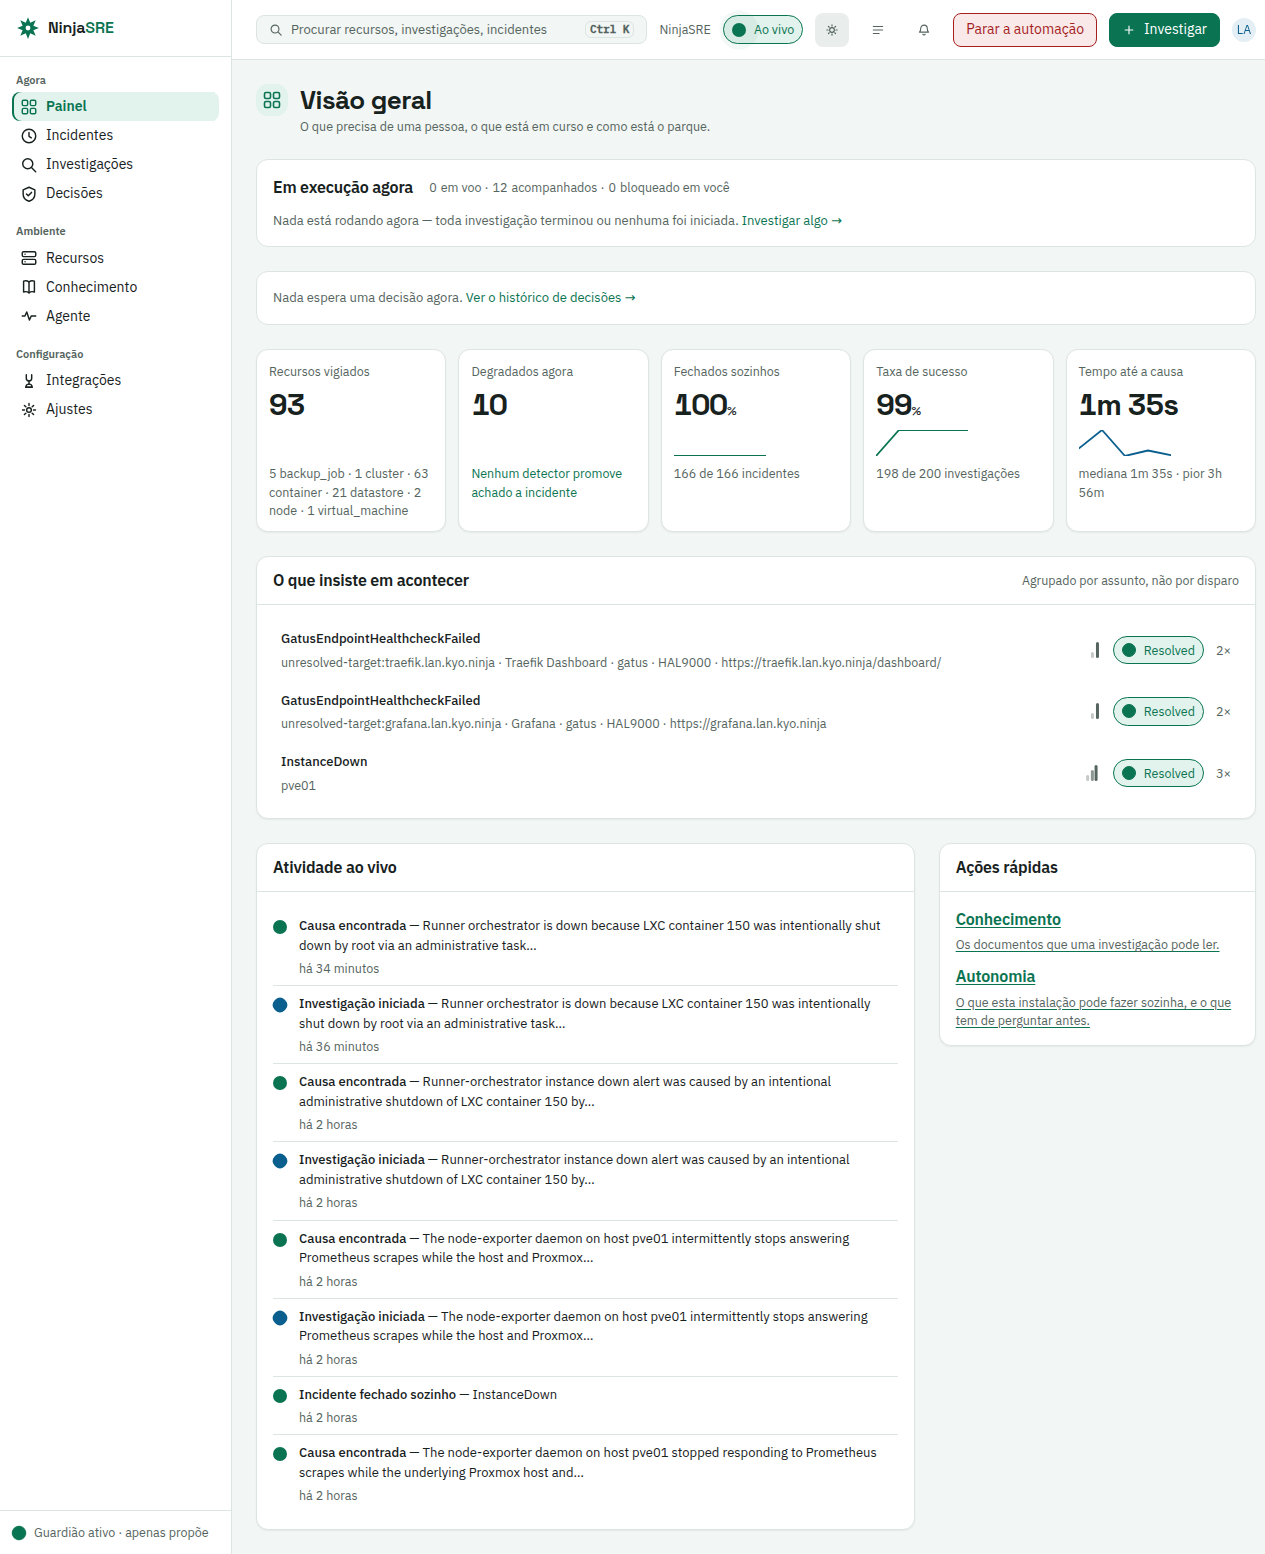
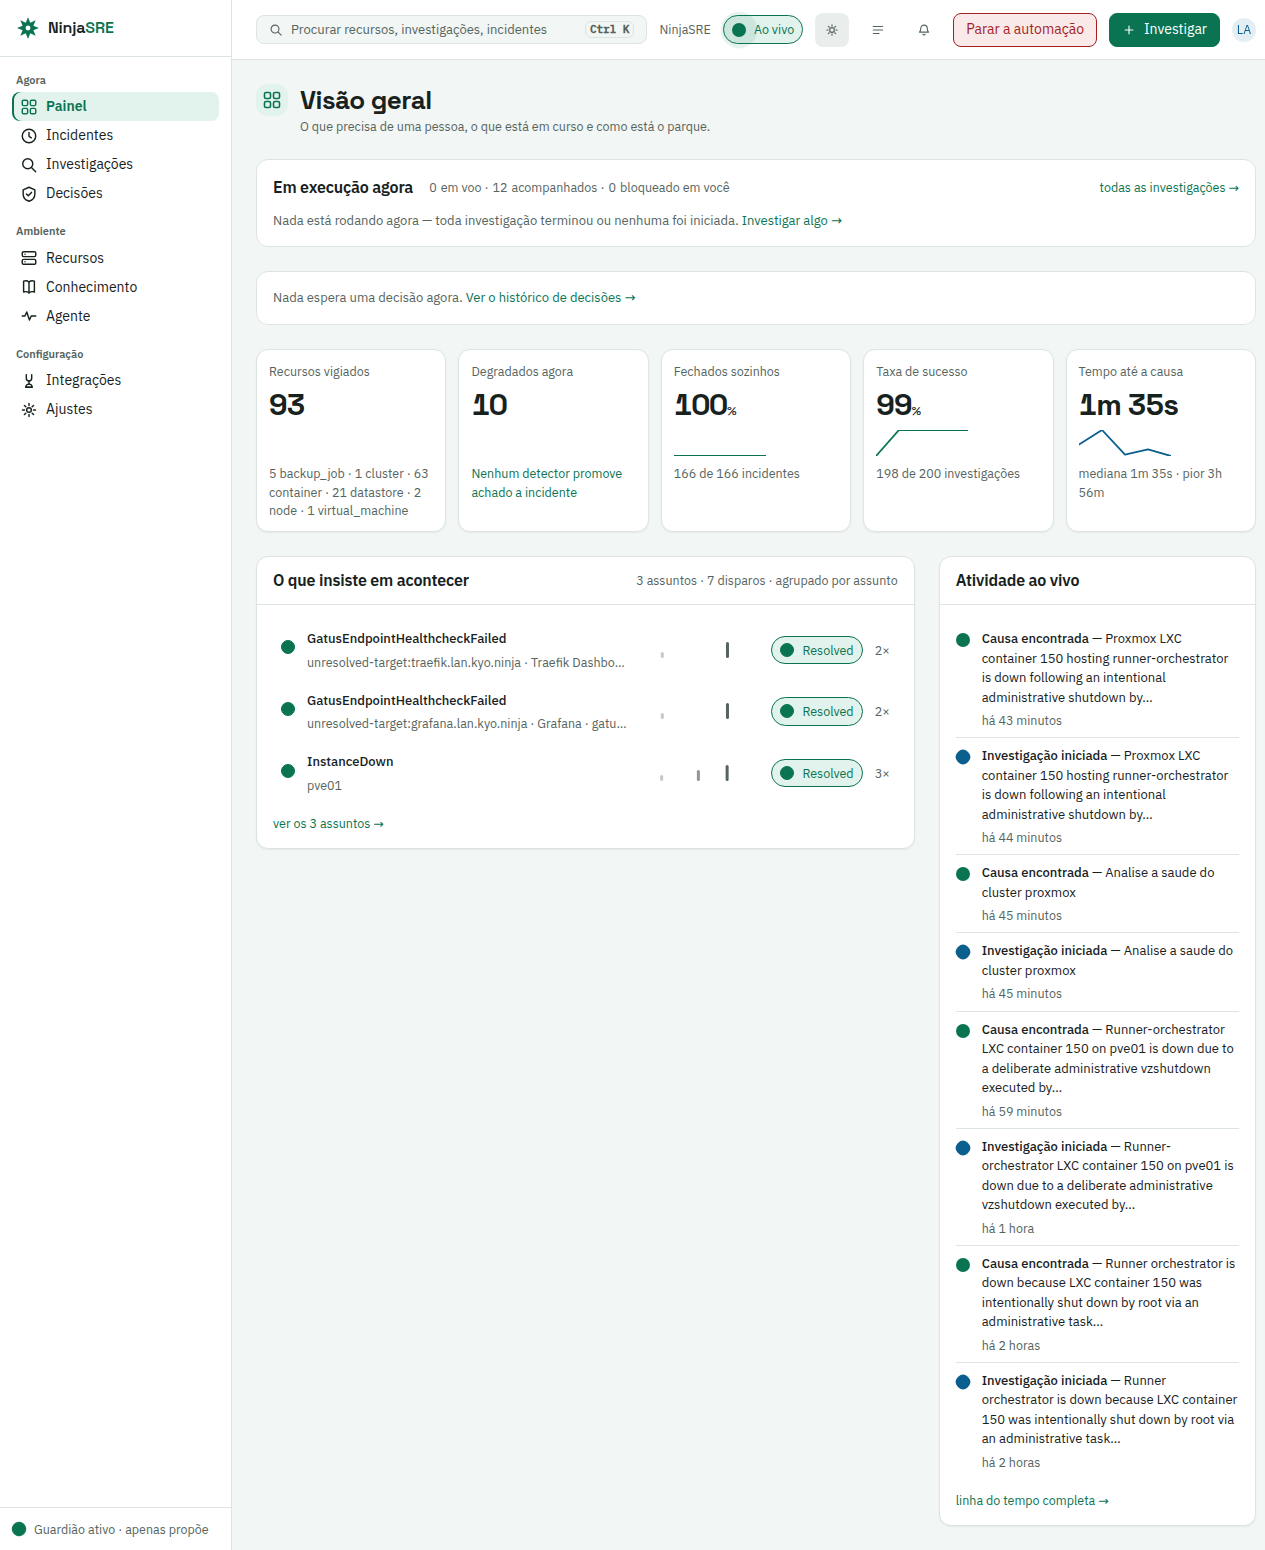
docs(specs): record the conformed Painel and what the visual gate caught
Both themes CONFORME against the artboard after the layout work, captured on
the 20:08:01Z pod generation with the routes warmed.

The verdict now says per file what each capture is evidence of, marks the two
live-run captures as pre-fix, and states where staging's live data differs from
the artboard's sample so nobody later reads a data-shaped gap as a layout one.

Claude-Session: https://claude.ai/code/session_01U2LvfDxXmuEAZz6MpEJBHE

diff --git a/specs_v8/050-painel-vivo/evidence/visual/VEREDITO.md b/specs_v8/050-painel-vivo/evidence/visual/VEREDITO.md
@@ -1,92 +1,100 @@
 # Veredito visual — 050 Painel vivo, slot S3
 
-Feito no Orca Browser contra o staging (`https://stg-ninjasre.lan.kyo.ninja/`),
-depois do deploy dos três componentes, do rollout confirmado por listagem de
-pods e das nove rotas aquecidas autenticadas. Locale pt-BR, escolhido pelo
-cookie `ninjasre_locale` — que é como um leitor troca de idioma, e o que
-`requestLocale` prefere sobre o `accept-language`. O `DEFAULT_LOCALE` do
-console é `en`, então a primeira renderização em inglês era comportamento
-correto e não defeito.
+Orca Browser contra o staging (`https://stg-ninjasre.lan.kyo.ninja/`), depois
+do deploy dos três componentes, da geração de pods confirmada por listagem
+(20:08:01Z, sem sobra da anterior) e das nove rotas aquecidas autenticadas.
+Locale pt-BR pelo cookie `ninjasre_locale`, que é como um leitor troca de
+idioma. O `DEFAULT_LOCALE` do console é `en`, então a primeira renderização em
+inglês era comportamento correto, não defeito.
 
 | Tela | Tema | Veredito |
 |---|---|---|
 | `/` | dark | **CONFORME** |
 | `/` | light | **CONFORME** |
 
-Os dois desvios que este gate encontrou foram corrigidos e reconferidos na
-tela viva, não no código.
+Cada tema foi nomeado pelo valor **medido** de `data-theme`, não pelo
+presumido. Na primeira rodada deste gate os dois arquivos saíram trocados
+justamente por presunção.
 
-## O que este gate achou, e a suíte verde não
+## O que este gate achou com a suíte verde
 
-**1. "O que continua acontecendo" onde o board manda "O que insiste em
-acontecer".** Os dois artboards dizem a frase; a própria spec a repete sete
-vezes, entre elas a AN-11 e a SC-006. Nada em `DIVERGENCIAS.md` registrava a
-troca, e desvio sem registro é FAIL de slot pelo §3 do `EXECUCAO.md`.
+Três defeitos reais, nenhum deles visível a um teste que passava.
 
-Passou por baixo da suíte porque **nenhum teste afirmava o nome da seção** —
-localizavam o painel por `data-testid`. E, mais fundo: `playwright.config.ts:40`
-fixa `locale: 'en-GB'`, então **nenhum teste e2e conseguia ver uma string em
-pt-BR**, enquanto o board é inteiramente pt-BR. A superfície de conformidade
-com o artboard era invisível ao Playwright por construção. Isso é achado de
-onda, não da 050, e está no confronto.
+**1. O título da seção.** O board e a própria spec (AN-11, SC-006, sete
+menções) dizem "O que insiste em acontecer"; o console dizia "O que continua
+acontecendo", sem registro em `DIVERGENCIAS.md`. Nenhum teste afirmava o nome
+da seção. E, mais fundo: `playwright.config.ts:40` fixa `locale: 'en-GB'`, de
+modo que **nenhum teste e2e conseguia ver uma string em pt-BR** — a superfície
+inteira de conformidade com o artboard era invisível ao Playwright por
+construção. Achado de onda, não da 050.
 
-Corrigido em `pt-BR.ts:800`; asserção nova em `painel-vivo.acceptance.spec.ts`
-com controle negativo nos dois sentidos.
+**2. O identificador cru como texto de linha.** A linha lia `res-76ab1466…`.
+O primeiro reparo resolveu o nome do estate e ela passou a `pve01 ·
+res-76ab1466…` — e a AN-12 **ficou verde**, porque seu regex era ancorado em
+`^res-` e o nome entrou na frente. O defeito andou de lado. A SC-007 proíbe o
+padrão em *qualquer texto visível*; a FR-024 diz que o identificador aparece no
+máximo como tooltip. Segundo reparo, e asserção reescrita sem âncora.
 
-**2. Identificador cru como texto de linha.** A linha do `InstanceDown` lia
-`res-76ab1466…`. O primeiro reparo resolveu o nome do estate e ela passou a
-ler `pve01 · res-76ab1466…` — e a AN-12 **ficou verde**, porque seu regex era
-ancorado em `^res-` e o `pve01` entrou na frente.
+**3. A composição.** O board põe "O que insiste em acontecer" e "Atividade ao
+vivo" lado a lado; o console empilhava. Faltavam o contador do cabeçalho, os
+dois rodapés e o `todas as investigações →`. E o limite de **5 assuntos** que a
+spec exige na linha 486 nunca tinha sido implementado — os outros dois limites
+existiam como constante nomeada, esse não, então o painel desenhava todos.
 
-Isso não fechava nada. A **SC-007** proíbe o padrão em *qualquer texto visível*
-do Painel, e a **FR-024** diz que o identificador interno aparece *no máximo
-como tooltip, nunca como texto da linha*. O teste tinha ficado verde porque o
-defeito andou de lado.
+## Conferido na tela, nesta captura
 
-Achado lendo a tela depois do deploy, não rodando a suíte. Segundo reparo: com
-`isOpaque(subject)` — condicionado assim para não quebrar a 060, que afirma
-`toContainText('ct-102')` no mesmo componente compartilhado — a linha passa a
-mostrar só o nome, e o id vive apenas no `title`. A asserção foi reescrita para
-a redação real da SC-007: sem âncora, sobre o texto visível do Painel.
+- Duas colunas, "O que insiste em acontecer" ao lado de "Atividade ao vivo".
+- Cabeçalho com `3 assuntos · 7 disparos · agrupado por assunto`, onde a soma
+  dos disparos vem dos mesmos `count` que as linhas imprimem como `N×` — então
+  cabeçalho e linhas não podem discordar.
+- `ver os 3 assuntos →` e `linha do tempo completa →`.
+- `todas as investigações →` na banda de execução.
+- Marca de status à esquerda de cada assunto.
+- Sparkline por assunto em eixo fixo, não mais `occurrences.length * 6` — que
+  dava 12 pixels a um assunto de dois disparos e punha duas linhas em escalas
+  diferentes.
+- Zero ocorrências de `res-[0-9a-f]{8}` e de hex ≥16 no snapshot inteiro.
+- "Ações rápidas" ausente, e a remoção foi decidida com razão verificada:
+  `/knowledge` duplica entrada permanente da barra lateral, e `/autonomy` é
+  rota aposentada (`routes.ts:318`, `visible: () => false`) que o
+  `GuardianFooter` alcança do rodapé de toda página. Nenhum destino se perde.
 
-Reconferido na tela viva: **zero ocorrências** de `res-[0-9a-f]{8}` e zero de
-hex ≥16 no snapshot inteiro. A linha lê `InstanceDown · pve01`. As demais
-linhas mantiveram suas cadeias de metadados intactas — o conserto não decepou
-metadado por atacado.
+## Onde o dado vivo difere do artboard, e isso não é desvio
 
-## O que confere
+O §3 do `EXECUCAO.md` manda dizer isto explicitamente. O board desenha 5
+assuntos e 6 entradas de atividade, com as duas colunas de altura parecida. O
+staging tem 3 assuntos e 8 entradas, então a coluna da esquerda termina bem
+antes da direita e sobra um vazio grande. **É o dado, não a composição** — com
+5 assuntos as colunas se aproximam. Registro para que ninguém leia o vazio como
+defeito de layout depois.
 
-- Todas as seções que a spec nomeia, com dado real, nos dois temas: banda de
-  execução, "Precisa de você", os cinco KPIs com valor, sparkline e legenda de
-  decomposição, o agrupamento por assunto e a atividade ao vivo.
-- Os seis segmentos de estágio da AN-03 no cartão vivo, com o atual distinto do
-  concluído e do futuro — em `dashboard-{dark,light}-live-run.png`.
-- O cartão titulado pelo objetivo digitado, palavra por palavra: a alegação da
-  020 vista na tela.
-- O chip de frescor apanhado nos dois estados entre as capturas.
+## Divergências registradas nesta rodada
 
-## Observações que não são defeitos desta feature
-
-- Os chips de assunto dizem "Resolved" num console pt-BR. É deliberado e
-  documentado: `status.tsx:192` diz que o `Badge` é "o único chip que carrega
-  uma palavra que o deployment escreveu, não uma que este console escolheu".
-  Vale decisão do operador só porque a mesma palavra sai "Resolvido" em
-  `/incidents`.
-- `dashboard.kpi.sparkline.label` é `'Tendência de {count} dias'`, então com
-  `count=1` anuncia "Tendência de 1 dias". É nome acessível da sparkline, não
-  texto desenhado — não afeta a comparação com o artboard, mas é erro de
-  concordância numa chave da própria 050.
+`design/padrao-2026-08/DIVERGENCIAS.md`, entradas 9–12: o trilho vertical
+ausente no feed; o chip `stream` e a legenda `atualizado por eventos` recusados
+sob a regra de um indicador de frescor por página; a decomposição de
+`Recursos vigiados` imprimindo as palavras do próprio estate, porque o conjunto
+de tipos é aberto por integração; e o chip `Resolved`, que **não** foi
+consertado de propósito — o vocabulário de status é da fundação e o mesmo chip
+está em `/incidents`, `/runs` e `/decisions`.
 
 ## Evidência
 
-| Arquivo | O que mostra |
-|---|---|
-| `dashboard-dark.png` | `/`, escuro, estado final pós-reparos |
-| `dashboard-light.png` | `/`, claro, estado final pós-reparos |
-| `dashboard-dark-live-run.png` | `/`, escuro, com o run vivo aos 46s e os seis segmentos |
-| `dashboard-light-live-run.png` | `/`, claro, com o run vivo aos 26s |
+| Arquivo | O que mostra | De que é evidência |
+|---|---|---|
+| `dashboard-dark.png` | `/`, escuro, layout conformado | composição, contador, rodapés, SC-007 |
+| `dashboard-light.png` | `/`, claro, layout conformado | idem |
+| `dashboard-dark-live-run.png` | `/`, escuro, run vivo aos 46s | **só** AN-01/AN-02/AN-03 |
+| `dashboard-light-live-run.png` | `/`, claro, run vivo aos 26s | idem |
+| `ARTBOARD-DashboardLight.png` | o board renderizado | o termo de comparação |
 
-As duas com cartão vivo trazem o run `0a8e5cb259614ac7baeaaea1bc0566e8`, o
-único criado no slot. As duas finais não têm cartão porque ele terminou — e o
-§4 do `EXECUCAO.md` dá um run por slot, então não se abre outro para render
-uma captura mais bonita.
+**As duas capturas com cartão vivo são anteriores aos consertos** — de 16:48.
+Elas mostram o título antigo e o id cru, isto é, os defeitos que este gate
+depois fechou, e **não** valem como evidência da SC-007 nem da AN-11. Ficam
+porque são a única evidência do cartão vivo e dos seis segmentos, e porque
+registram o "antes". Não foram recapturadas porque o §4 do `EXECUCAO.md` dá um
+run por slot e ele já foi gasto.
+
+Uma versão anterior deste arquivo listava os quatro juntos sob uma frase que
+afirmava zero ocorrências do id cru. Dois dos quatro exibiam o id cru. Um
+verifier independente pegou.
